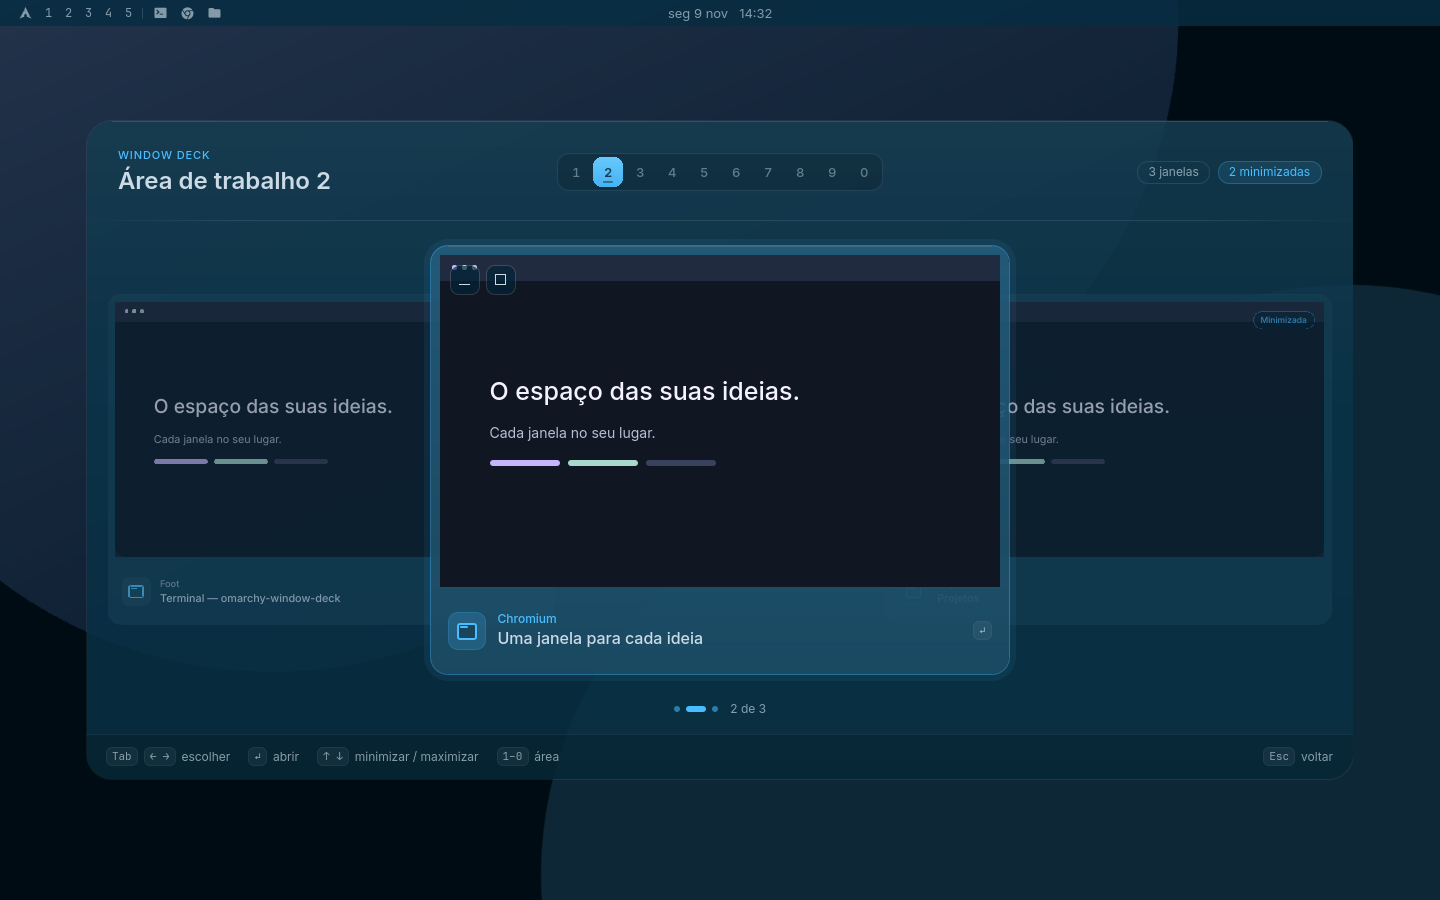
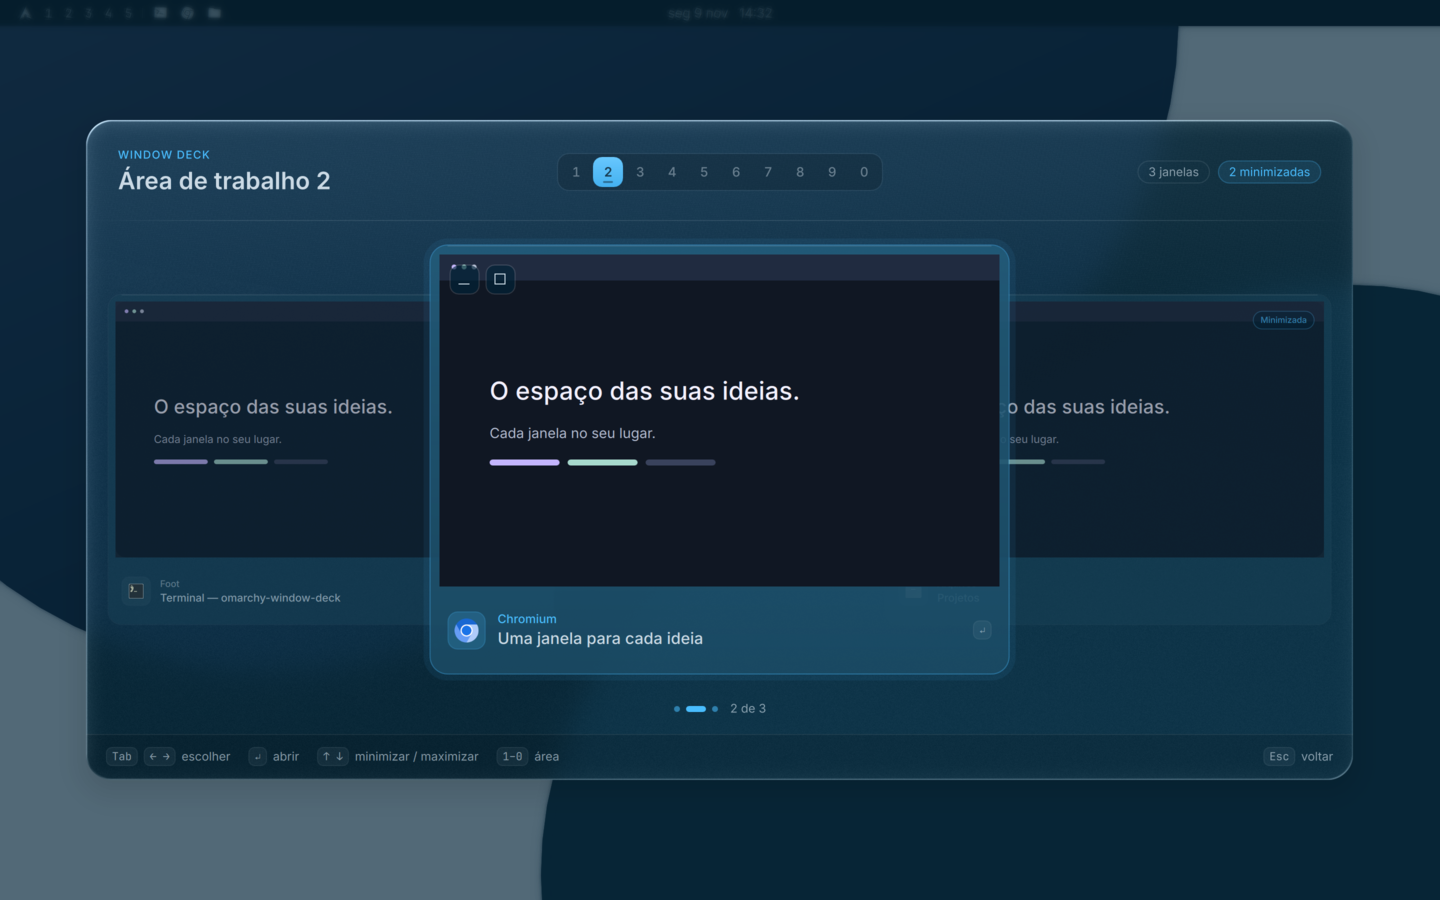
docs: updated README previews with the liquid glass
Render docs/preview.png and a new docs/empty-preview.png with the glass
visible: scripts/render-docs.sh runs tests/preview.qml in the graphical
session, since the offscreen platform has no GPU scene graph. The
preview passes its wallpaper as a static backdrop (new backdropItem).
run-preview.sh now writes to its temporary directory instead of
overwriting the README images.

Glass now needs the GPU scene graph: with software rendering, which
cannot run shader effects, the plain theme panel is used instead of a
transparent one.

diff --git a/DeckView.qml b/DeckView.qml
@@ -23,7 +23,11 @@ Item {
     // and paints the launcher's liquid glass from that snapshot; without it
     // (or until the snapshot arrives) the plain theme panel is used.
     property var backdropScreen: null
-    readonly property bool glass: backdrop.ready
+    // A static item to use instead of a screen snapshot (documentation preview).
+    property Item backdropItem: null
+    // Shader effects need the GPU scene graph; software rendering keeps the
+    // plain theme panel.
+    readonly property bool glass: backdrop.ready && GraphicsInfo.api !== GraphicsInfo.Software
     // A stable identity-only model preserves capture sessions through metadata
     // snapshots, but rebuilds them when a source window is replaced or removed.
     readonly property string windowIdentities: windows.map(function(row) { return row.address; }).join(",")
@@ -59,22 +63,30 @@ Item {
         id: backdrop
         anchors.fill: parent
         property real amount: 0
-        readonly property bool ready: !!shot.item && shot.item.hasContent
+        readonly property bool ready: !!shot.item && (root.backdropScreen ? shot.item.hasContent : true)
         onReadyChanged: if (ready) backdropIn.restart(); else amount = 0
         Loader {
             id: shot
             anchors.fill: parent
-            active: !!root.backdropScreen
-            sourceComponent: ScreencopyView {
+            active: (!!root.backdropScreen || !!root.backdropItem) && GraphicsInfo.api !== GraphicsInfo.Software
+            sourceComponent: root.backdropScreen ? screenShot : itemShot
+        }
+        Component {
+            id: screenShot
+            ScreencopyView {
                 captureSource: root.backdropScreen
                 live: false
                 paintCursor: false
             }
         }
+        Component {
+            id: itemShot
+            ShaderEffectSource { sourceItem: root.backdropItem; live: false }
+        }
         MultiEffect {
             anchors.fill: parent
             source: shot.item
-            visible: backdrop.ready
+            visible: root.glass
             autoPaddingEnabled: false
             blurEnabled: true
             blurMax: 32
@@ -82,7 +94,7 @@ Item {
         }
         Rectangle {
             anchors.fill: parent
-            visible: backdrop.ready
+            visible: root.glass
             color: Commons.Util.alpha(DeckPalette.background, 0.68)
             opacity: backdrop.amount / 0.4
         }
@@ -92,7 +104,7 @@ Item {
             anchors.fill: parent
             source: shot.item
             visible: false
-            layer.enabled: backdrop.ready
+            layer.enabled: root.glass
             autoPaddingEnabled: false
             blurEnabled: true
             blurMax: 64

diff --git a/runtime/v_1_6_0_06b207854502/DeckView.qml b/runtime/v_1_6_0_06b207854502/DeckView.qml
@@ -23,7 +23,11 @@ Item {
     // and paints the launcher's liquid glass from that snapshot; without it
     // (or until the snapshot arrives) the plain theme panel is used.
     property var backdropScreen: null
-    readonly property bool glass: backdrop.ready
+    // A static item to use instead of a screen snapshot (documentation preview).
+    property Item backdropItem: null
+    // Shader effects need the GPU scene graph; software rendering keeps the
+    // plain theme panel.
+    readonly property bool glass: backdrop.ready && GraphicsInfo.api !== GraphicsInfo.Software
     // A stable identity-only model preserves capture sessions through metadata
     // snapshots, but rebuilds them when a source window is replaced or removed.
     readonly property string windowIdentities: windows.map(function(row) { return row.address; }).join(",")
@@ -59,22 +63,30 @@ Item {
         id: backdrop
         anchors.fill: parent
         property real amount: 0
-        readonly property bool ready: !!shot.item && shot.item.hasContent
+        readonly property bool ready: !!shot.item && (root.backdropScreen ? shot.item.hasContent : true)
         onReadyChanged: if (ready) backdropIn.restart(); else amount = 0
         Loader {
             id: shot
             anchors.fill: parent
-            active: !!root.backdropScreen
-            sourceComponent: ScreencopyView {
+            active: (!!root.backdropScreen || !!root.backdropItem) && GraphicsInfo.api !== GraphicsInfo.Software
+            sourceComponent: root.backdropScreen ? screenShot : itemShot
+        }
+        Component {
+            id: screenShot
+            ScreencopyView {
                 captureSource: root.backdropScreen
                 live: false
                 paintCursor: false
             }
         }
+        Component {
+            id: itemShot
+            ShaderEffectSource { sourceItem: root.backdropItem; live: false }
+        }
         MultiEffect {
             anchors.fill: parent
             source: shot.item
-            visible: backdrop.ready
+            visible: root.glass
             autoPaddingEnabled: false
             blurEnabled: true
             blurMax: 32
@@ -82,7 +94,7 @@ Item {
         }
         Rectangle {
             anchors.fill: parent
-            visible: backdrop.ready
+            visible: root.glass
             color: Commons.Util.alpha(DeckPalette.background, 0.68)
             opacity: backdrop.amount / 0.4
         }
@@ -92,7 +104,7 @@ Item {
             anchors.fill: parent
             source: shot.item
             visible: false
-            layer.enabled: backdrop.ready
+            layer.enabled: root.glass
             autoPaddingEnabled: false
             blurEnabled: true
             blurMax: 64

diff --git a/tests/preview.qml b/tests/preview.qml
@@ -18,6 +18,12 @@ ShellRoot {
         color: "#080C16"
         Item {
             id: canvas
+            // Fixed size, so a tiled preview window still renders the full frame.
+            width: window.implicitWidth
+            height: window.implicitHeight
+            // The desktop behind the picker, also its glass backdrop.
+            Item {
+            id: wallpaper
             anchors.fill: parent
             Rectangle {
                 x: -200; y: -330; width: 1400; height: 900
@@ -57,11 +63,13 @@ ShellRoot {
                 }
                 Deck.PlainText { anchors.centerIn: parent; text: "seg 9 nov   14:32" }
             }
+            }
 
             Deck.DeckView {
                 id: view
                 anchors.fill: parent
                 visible: !Quickshell.env("DECK_PREVIEW_BAR_ONLY")
+                backdropItem: wallpaper
                 workspaceId: 2
                 selectedIndex: 1
                 windows: [
@@ -195,6 +203,8 @@ ShellRoot {
                 console.log("WAYLAND_OVERLAY_CHECK_PENDING: offscreen platform has no layer-shell backend");
             else if (!check(overlayComponent.status === Component.Ready, "Deck loads: " + overlayComponent.errorString())) return;
             console.log("UI_CHECKS_PASSED: 15");
+            // Documentation image of an empty workspace browsed from another one.
+            if (Quickshell.env("DECK_PREVIEW_EMPTY")) { view.windows = []; view.workspaceId = 3; view.activeWorkspace = 2; view.slotCounts = [1, 3, 0, 2]; }
             captureTimer.start();
         }
     }
@@ -207,6 +217,6 @@ ShellRoot {
             }
             console.log("PREVIEW_SAVED");
             Qt.quit();
-        })
+        }, Qt.size(canvas.width, canvas.height))
     }
 }
